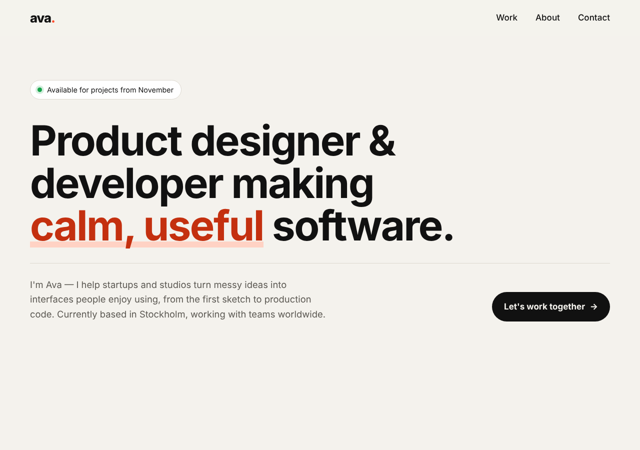
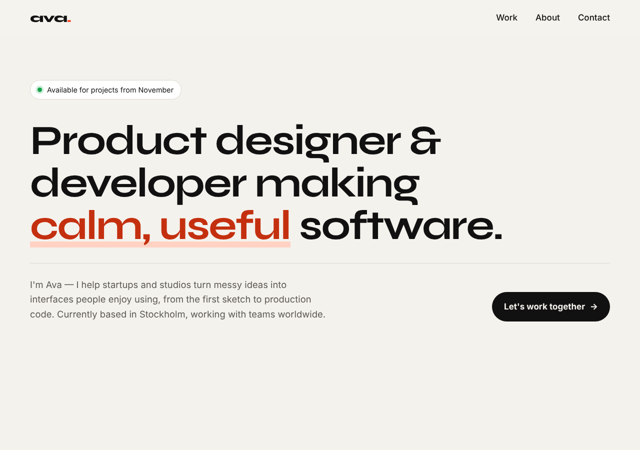
Games: picker guide and FAQ on games index

Changed region(s): [[0.0312, 0.28, 0.7812, 0.56], [0.0312, 0.0311, 0.125, 0.0622]]

diff --git a/games/index.html b/games/index.html
@@ -1,7 +1,7 @@
 <!doctype html><html lang="en"><head><meta charset="utf-8">
 <meta name="viewport" content="width=device-width,initial-scale=1"><title>Free Retro Browser Games (No Download, No Ads)</title>
-<meta name="description" content="Play free retro arcade and puzzle games in your browser: snake, brick breaker, block drop, 2048 and a mines puzzle. Works on phones."><link rel="canonical" href="https://goodlittlefiles.com/games/">
-<meta property="og:title" content="Free Retro Browser Games (No Download, No Ads)"><meta property="og:description" content="Play free retro arcade and puzzle games in your browser: snake, brick breaker, block drop, 2048 and a mines puzzle. Works on phones."><meta property="og:type" content="website"><meta property="og:url" content="https://goodlittlefiles.com/games/"><meta property="og:site_name" content="Good Little Files"><meta property="og:image" content="https://goodlittlefiles.com/social/games.jpg"><meta property="og:image:width" content="1080"><meta property="og:image:height" content="1350"><meta name="twitter:card" content="summary_large_image">
+<meta name="description" content="Play free retro arcade and puzzle games in your browser: snake, brick breaker, block drop, 2048, a mines puzzle and a memory match game. Works on phones."><link rel="canonical" href="https://goodlittlefiles.com/games/">
+<meta property="og:title" content="Free Retro Browser Games (No Download, No Ads)"><meta property="og:description" content="Play free retro arcade and puzzle games in your browser: snake, brick breaker, block drop, 2048, a mines puzzle and a memory match game. Works on phones."><meta property="og:type" content="website"><meta property="og:url" content="https://goodlittlefiles.com/games/"><meta property="og:site_name" content="Good Little Files"><meta property="og:image" content="https://goodlittlefiles.com/social/games.jpg"><meta property="og:image:width" content="1080"><meta property="og:image:height" content="1350"><meta name="twitter:card" content="summary_large_image">
 <link rel="stylesheet" href="../style.css"></head><body>
 <header class="top"><a class="brand" href="../">Good Little Files</a><nav><a href="../printables/">Printables</a><a href="../games/">Games</a><a href="../templates/">Templates</a><a href="../pixel-art/">Pixel art</a></nav></header>
 <main class="wrap"><p class="eyebrow">Free · plays in your browser · phone and desktop</p><h1>Free retro browser games</h1>
@@ -9,7 +9,17 @@
 <ul class="cards"><li><a href="snake/"><img src="snake/shot.png" alt="Neon Snake screenshot" loading="lazy"><span><b>Neon Snake</b><br><span class="small">Steer a glowing snake around the grid, eat to grow, and survive as the speed keeps climbing.</span></span></a></li><li><a href="bricks/"><img src="bricks/shot.png" alt="Brick Breaker screenshot" loading="lazy"><span><b>Brick Breaker</b><br><span class="small">Bounce the ball off your paddle to smash neon brick walls across ever-tougher levels with just three lives.</span></span></a></li><li><a href="blockdrop/"><img src="blockdrop/shot.png" alt="Block Drop screenshot" loading="lazy"><span><b>Block Drop</b><br><span class="small">Rotate and stack falling blocks to clear lines, watch the next piece, and level up as the drop speeds up.</span></span></a></li><li><a href="merge/"><img src="merge/shot.png" alt="2048 Merge screenshot" loading="lazy"><span><b>2048 Merge</b><br><span class="small">Slide numbered tiles on a 4x4 board and merge matching pairs until you reach 2048.</span></span></a></li><li><a href="mines/"><img src="mines/shot.png" alt="Neon Mines screenshot" loading="lazy"><span><b>Neon Mines</b><br><span class="small">Clear the grid without hitting a mine, using the numbers to work out where they hide.</span></span></a></li><li><a href="memory/"><img src="memory/shot.png" alt="Neon Memory screenshot" loading="lazy"><span><b>Neon Memory</b><br><span class="small">Flip glowing neon cards two at a time and find every matching pair in as few moves as you can.</span></span></a></li></ul>
 <section class="kit"><h2>Like them? Two ways to support</h2>
 <p>Leave a tip of any amount, or get the <b>offline pack</b>: all 6 games as files you can play without internet, plus the full commented source code you can learn from or use in your own projects.</p>
-<div class="row"><a class="btn" href="https://www.paypal.com/paypalme/fasteddie1973/3USD" target="_blank" rel="noopener" data-buy="games">Offline pack + source: $3</a><a class="btn ghost" href="https://www.paypal.com/paypalme/fasteddie1973" target="_blank" rel="noopener" data-buy="tip">Tip any amount</a></div><p class="small">After paying, email your PayPal receipt to <a href="mailto:eddie-resumekeys@agentmail.to?subject=Order%3A%20Games pack">eddie-resumekeys@agentmail.to</a>. Your files are emailed within 4 hours. Full refund within 7 days if you are not happy.</p></section></main>
+<div class="row"><a class="btn" href="https://www.paypal.com/paypalme/fasteddie1973/3USD" target="_blank" rel="noopener" data-buy="games">Offline pack + source: $3</a><a class="btn ghost" href="https://www.paypal.com/paypalme/fasteddie1973" target="_blank" rel="noopener" data-buy="tip">Tip any amount</a></div><p class="small">After paying, email your PayPal receipt to <a href="mailto:eddie-resumekeys@agentmail.to?subject=Order%3A%20Games pack">eddie-resumekeys@agentmail.to</a>. Your files are emailed within 4 hours. Full refund within 7 days if you are not happy.</p></section>
+<section class="ghow"><h2>Which game should I play?</h2><ul>
+<li><b>Five minutes to kill:</b> <a href="snake/">Neon Snake</a> or <a href="bricks/">Brick Breaker</a>. Quick rounds, instant restart.</li>
+<li><b>Want to think:</b> <a href="mines/">Neon Mines</a> or <a href="merge/">2048 Merge</a>. Logic over reflexes, so plan every move.</li>
+<li><b>Classic falling blocks:</b> <a href="blockdrop/">Block Drop</a>. Clear lines, speed climbs as you level up.</li>
+<li><b>Relaxed or playing with kids:</b> <a href="memory/">Neon Memory</a>. Flip cards and match pairs in as few moves as you can.</li></ul></section>
+<section class="ghow"><h2>Questions</h2>
+<p><b>Are they really free?</b> Yes. Every game plays free here with no ads and no account. The paid offline pack is optional.</p>
+<p><b>Do they work on phones and tablets?</b> Yes. Each game has touch controls and fits small screens, and plays with a keyboard or mouse on desktop.</p>
+<p><b>Is my best score saved?</b> Yes, in your browser on this device. Clearing your browser data or using a private window resets it.</p>
+<p><b>Can I play offline?</b> Get the offline pack: each game is a single HTML file that runs with no internet once downloaded.</p></section></main>
 <footer class="wrap small">Payments by PayPal. Questions: <a href="mailto:eddie-resumekeys@agentmail.to">eddie-resumekeys@agentmail.to</a></footer>
 <img src="https://hits.sh/vampyer.github.io/app-copy/site.svg" alt="" width="1" height="1" style="position:absolute;opacity:0">
 <script>document.querySelectorAll('[data-buy]').forEach(a=>a.addEventListener('click',()=>{new Image().src='https://hits.sh/vampyer.github.io/app-copy/buy-'+a.dataset.buy+'.svg'}));
